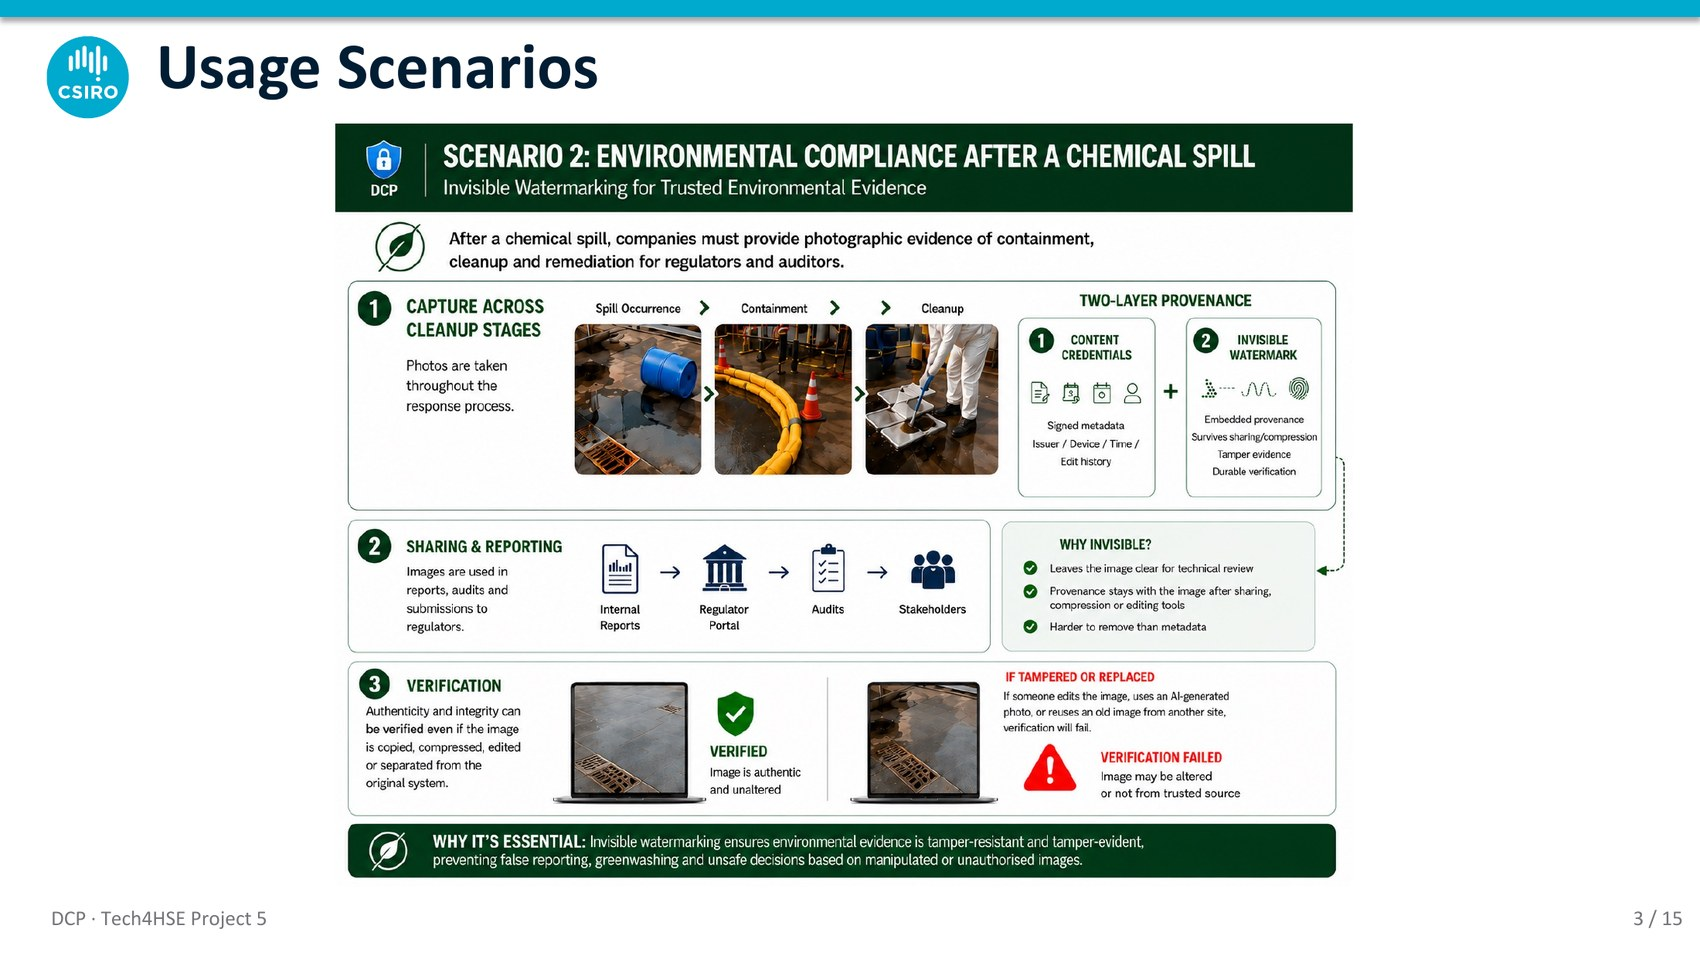
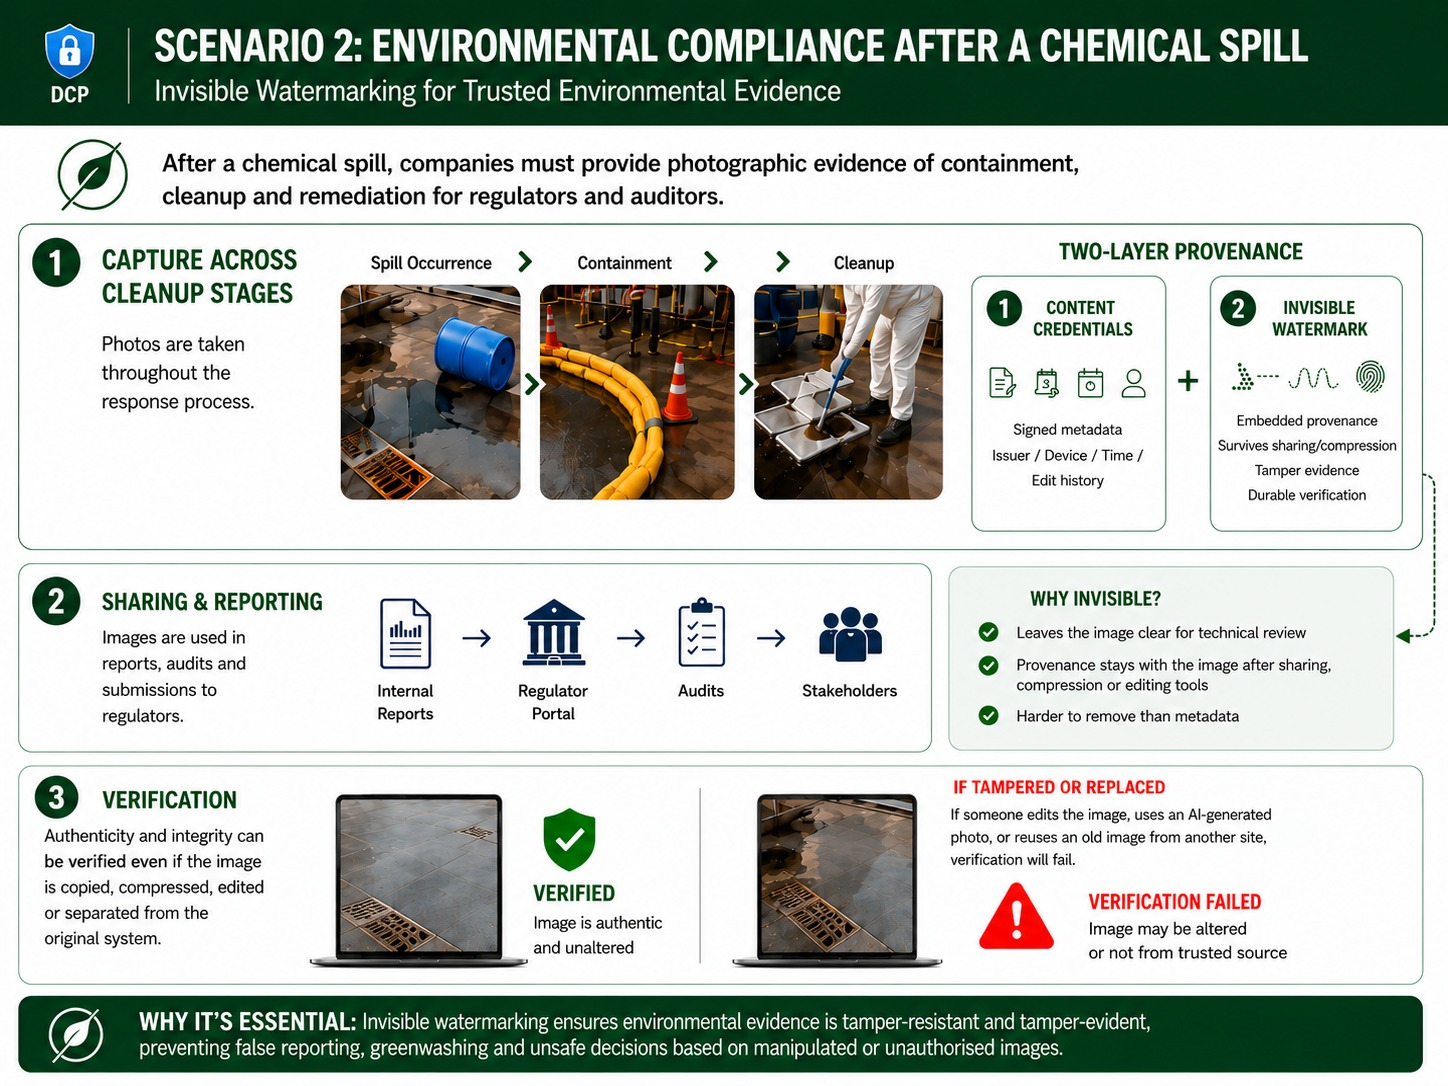
Swap full-slide screenshots for the designed scenario figures (s1/s2/s3)
Replace the slide-screenshot embeds with the polished standalone figures the
user provided — incident scenario, environmental scenario, and the cross-project
'Without DCP / With DCP' motivation — and update the third caption to match
its new content (per-group risk -> DCP fix, not the hub-and-spoke).

diff --git a/demo/frontend/src/App.js b/demo/frontend/src/App.js
@@ -1656,11 +1656,11 @@ function UsageScenariosSection() {
     },
     {
       src: scenarioTech4HSE,
-      title: 'DCP as a shared trust layer across Tech4HSE',
+      title: 'Why other Tech4HSE projects need DCP',
       caption:
-        'A common content-authenticity primitive every Tech4HSE project can build on — authenticating XR/AI ' +
-        'training content (P1·P3), giving AI-trust research a deployable mechanism (P4), and verifying ' +
-        'camera / sensor feeds for autonomy and monitoring (P6·P7).',
+        'The same risk runs across the program: AI/XR training content can be tampered (P1·P3); AI-trust ' +
+        'research has no checkable trust anchor (P4); autonomy and monitoring decisions ride on camera ' +
+        'feeds that can be spoofed (P6·P7). DCP turns each “without it” failure into a “with DCP” fix.',
     },
   ];
   return (
